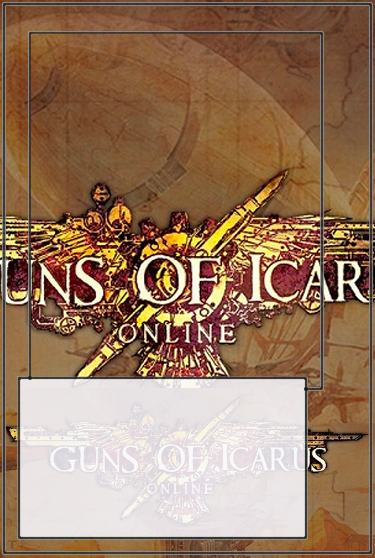
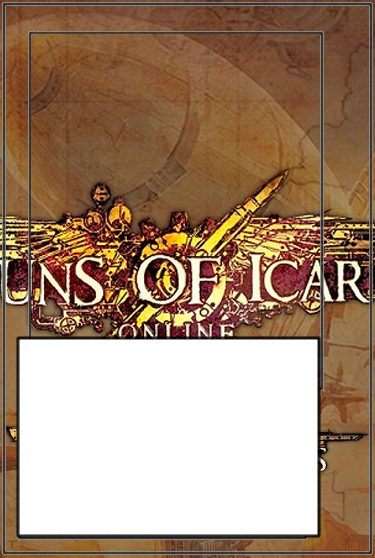
Updated card template

Changed region(s): [[0.0293, 0.5789, 0.88, 0.9749]]

diff --git a/app/assets/stylesheets/basic_card.css.sass b/app/assets/stylesheets/basic_card.css.sass
@@ -8,7 +8,7 @@
 	margin-left: auto
 
 .card_left_margin
-	width: 28px
+	width: 31px
 	height: 558px
 	float: left
 
@@ -19,6 +19,7 @@
 
 .card_title
 	width: 198px
+	margin-top: 2px
 	height: 32px
 	font-size: 11pt
 	color: #FFFFBF
@@ -33,28 +34,32 @@
 	position: absolute
 	top: 20px
 	text-align: right
-	font-size: 10pt
+	font-size: 13pt
+	font-weight: bold
+	text-shadow: -1px 0 black, 0 1px black, 1px 0 black, 0 -1px black
+	color: #FFFFBF
 
 .card_image
 	width: 290px
-	height: 355px
+	height: 304px
 	float: left
 
 .card_content
 	width: 258px
-	height: 195px
+	height: 238px
+	margin-top: 10px
 	float: left
 	font-size: 14pt
 	line-height: 16pt
 	color: #333326
 
 .card_right_margin
-	width: 53px
+	width: 50px
 	height: 558px
 	float: left
 
 .card_right_margin_spacer
-	width: 53px
+	width: 50px
 	height: 500px
 
 .ability_title

diff --git a/app/assets/stylesheets/crew_cards.css.sass b/app/assets/stylesheets/crew_cards.css.sass
@@ -2,13 +2,13 @@
 // They will automatically be included in application.css.
 // You can use Sass (SCSS) here: http://sass-lang.com/
 .tap
-	background-image: url('tap_icon.jpg')
+	background-image: url('tap_icon.png')
 	width: 12pt
 	height: 12pt
 	display: inline-block
 
 .untap
-	background-image: url('untap_icon.jpg')
+	background-image: url('untap_icon.png')
 	width: 12pt
 	height: 12pt
 	display: inline-block

diff --git a/app/assets/stylesheets/card_set.css.scss b/app/assets/stylesheets/card_set.css.scss
@@ -1,3 +1,3 @@
-// Place all the styles related to the CardSet controller here.
+// Place all the styles related to the card_set controller here.
 // They will automatically be included in application.css.
 // You can use Sass (SCSS) here: http://sass-lang.com/

diff --git a/test/functional/card_set_controller_test.rb b/test/functional/card_set_controller_test.rb
@@ -6,13 +6,23 @@ class CardSetControllerTest < ActionController::TestCase
     assert_response :success
   end
 
-  test "should get edit" do
-    get :edit
+  test "should get list" do
+    get :list
     assert_response :success
   end
 
   test "should get view" do
     get :view
+    assert_response :success
+  end
+
+  test "should get edit" do
+    get :edit
+    assert_response :success
+  end
+
+  test "should get delete" do
+    get :delete
     assert_response :success
   end
 

diff --git a/app/models/ability.rb b/app/models/ability.rb
@@ -11,7 +11,7 @@ class Ability < ActiveRecord::Base
   end
 
   def get_content_block()
-  	return "<div class='ability_title'>#{titleA}:</div><div class='ability_block'>#{CMLtoHTML(textA)}</div><br />
+  	return "<div class='ability_title'>#{titleA}:</div><div class='ability_block'>#{CMLtoHTML(textA)}</div><br /><br />
   			<div class='ability_title'>#{titleB}:</div><div class='ability_block'>#{CMLtoHTML(textB)}</div>"
   end
 end

diff --git a/app/controllers/card_set_controller.rb b/app/controllers/card_set_controller.rb
@@ -2,9 +2,15 @@ class CardSetController < ApplicationController
   def new
   end
 
-  def edit
+  def list
   end
 
   def view
+  end
+
+  def edit
+  end
+
+  def delete
   end
 end

diff --git a/config/routes.rb b/config/routes.rb
@@ -1,4 +1,8 @@
 Gunsoficardus::Application.routes.draw do
+  get "card_set/list"
+
+  get "card_set/delete"
+
   get "ability/new"
 
   get "ability/view"
